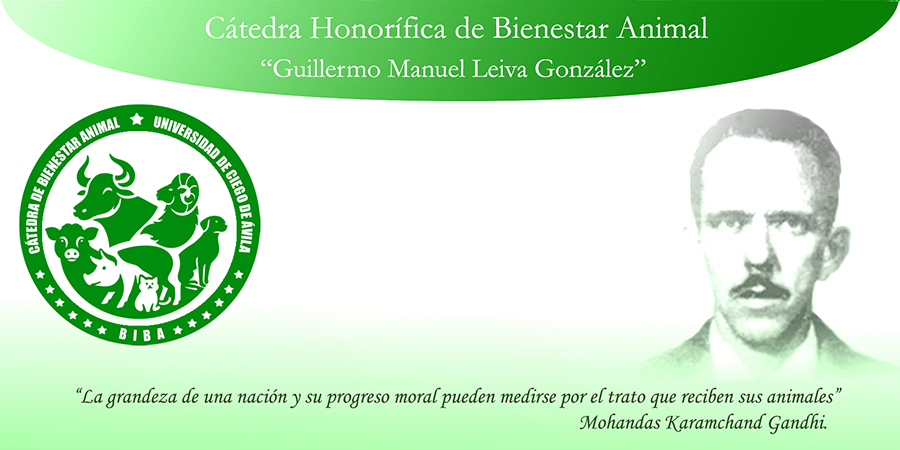
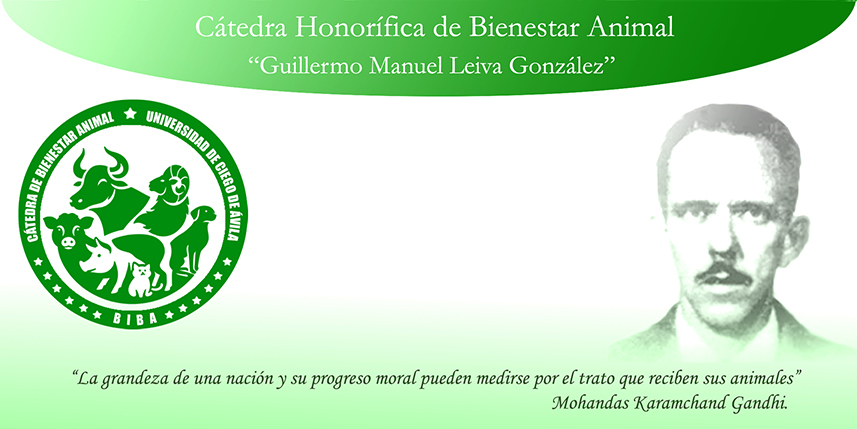
Editado futer y peso de pancarta

diff --git a/index.html b/index.html
@@ -1,5 +1,5 @@
 <!DOCTYPE html>
-<html lang="en">
+<html lang="es">
 <head>
     <meta charset="UTF-8">
     <meta name="viewport" content="width=device-width, initial-scale=1.0">
@@ -17,10 +17,10 @@
         <button class="nav-toggle">☰</button>
         <nav>
             <ul>
-                <li><a href="#">Home</a></li>
-                <li><a href="#">About</a></li>
-                <li><a href="#">Services</a></li>
-                <li><a href="#">Contact</a></li>
+                <li><a href="#">Inicio</a></li>
+                <li><a href="#">Historia</a></li>
+                <li><a href="#">Noticias</a></li>
+                <li><a href="#">Contacto</a></li>
             </ul>
         </nav>
     </header>
@@ -33,7 +33,8 @@
         </div>
     </main>
     <footer>
-        <p>&copy; 2024 Responsive Web Page. All rights reserved.</p>
+        <p>&copy; 2024 Universidad de Ciego de Ávila. Todos los derechos reservados.</p>
+        <p>Desarrollado por <strong>Jocsan Rodriguez</strong></p>
     </footer>
 </body>
 </html>

diff --git a/styles.css b/styles.css
@@ -75,10 +75,7 @@ main {
     padding: 20px;
 }
 
-.img-container{
-    margin-top: 20%;
-}
-.img-container img{
+main img{
     width: 1000px;
     height: 500px;
     display: block;
